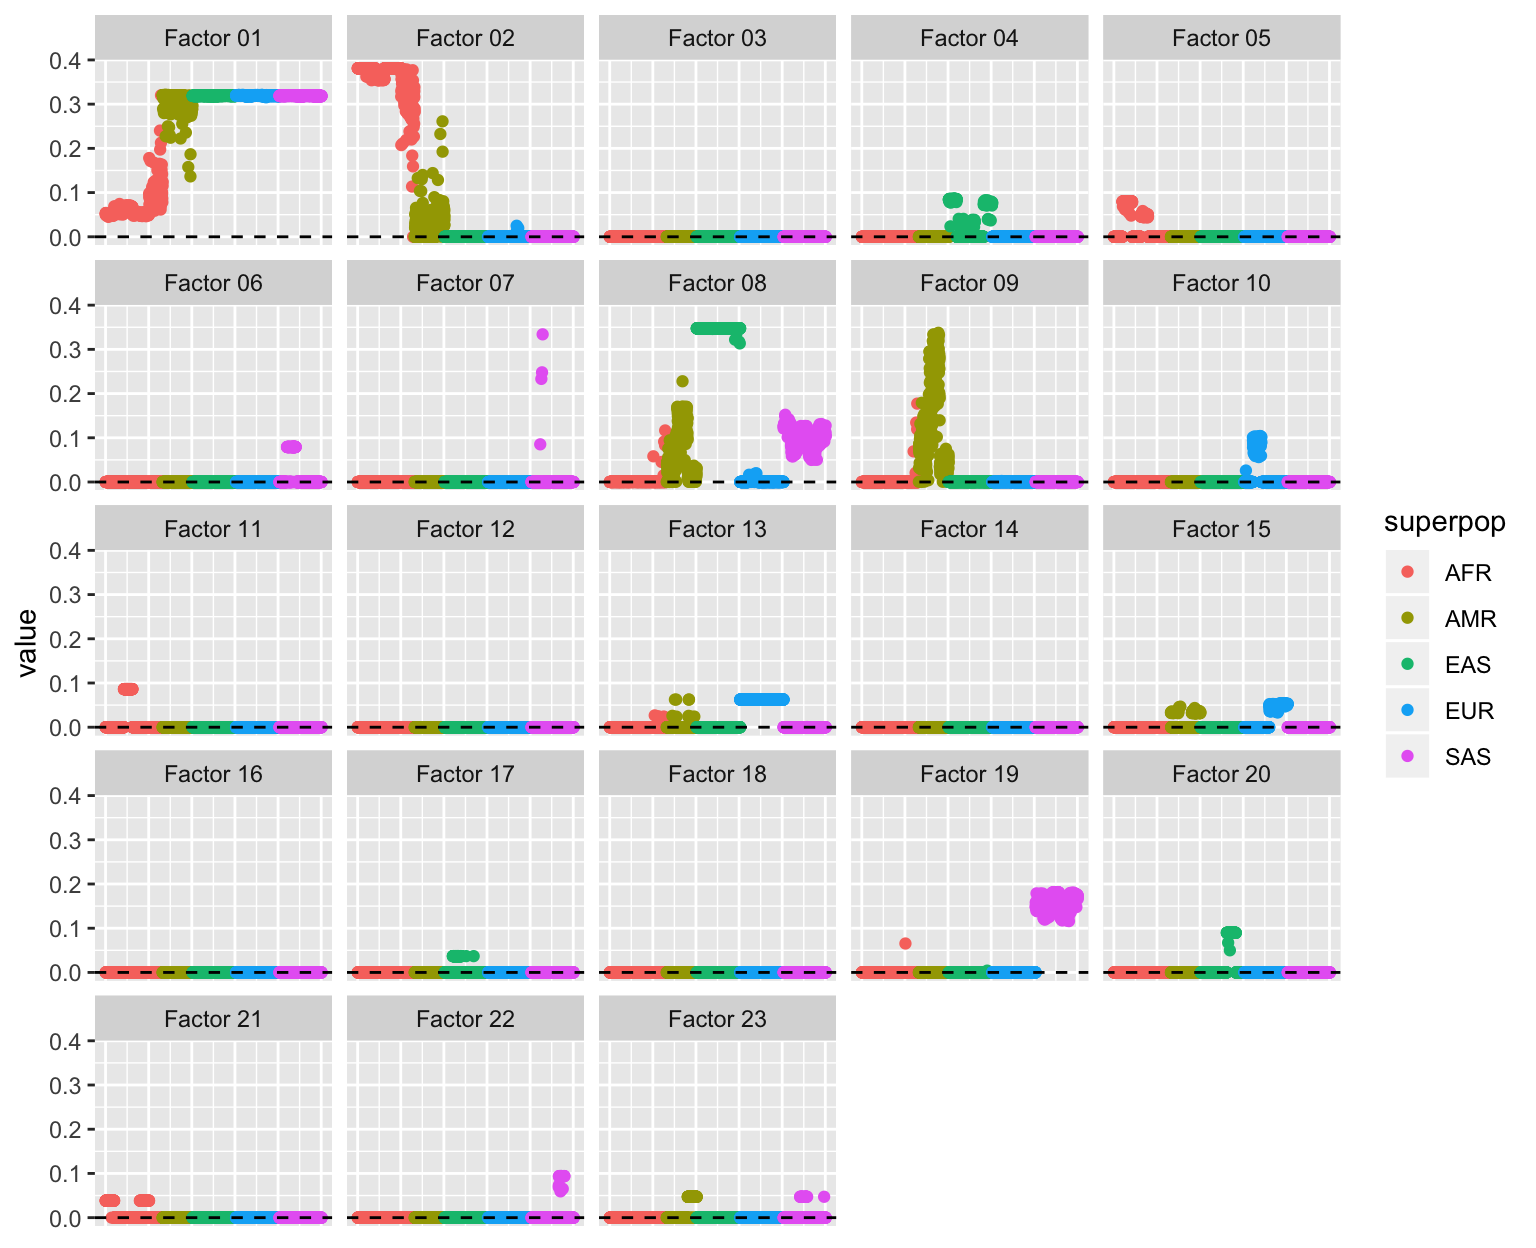
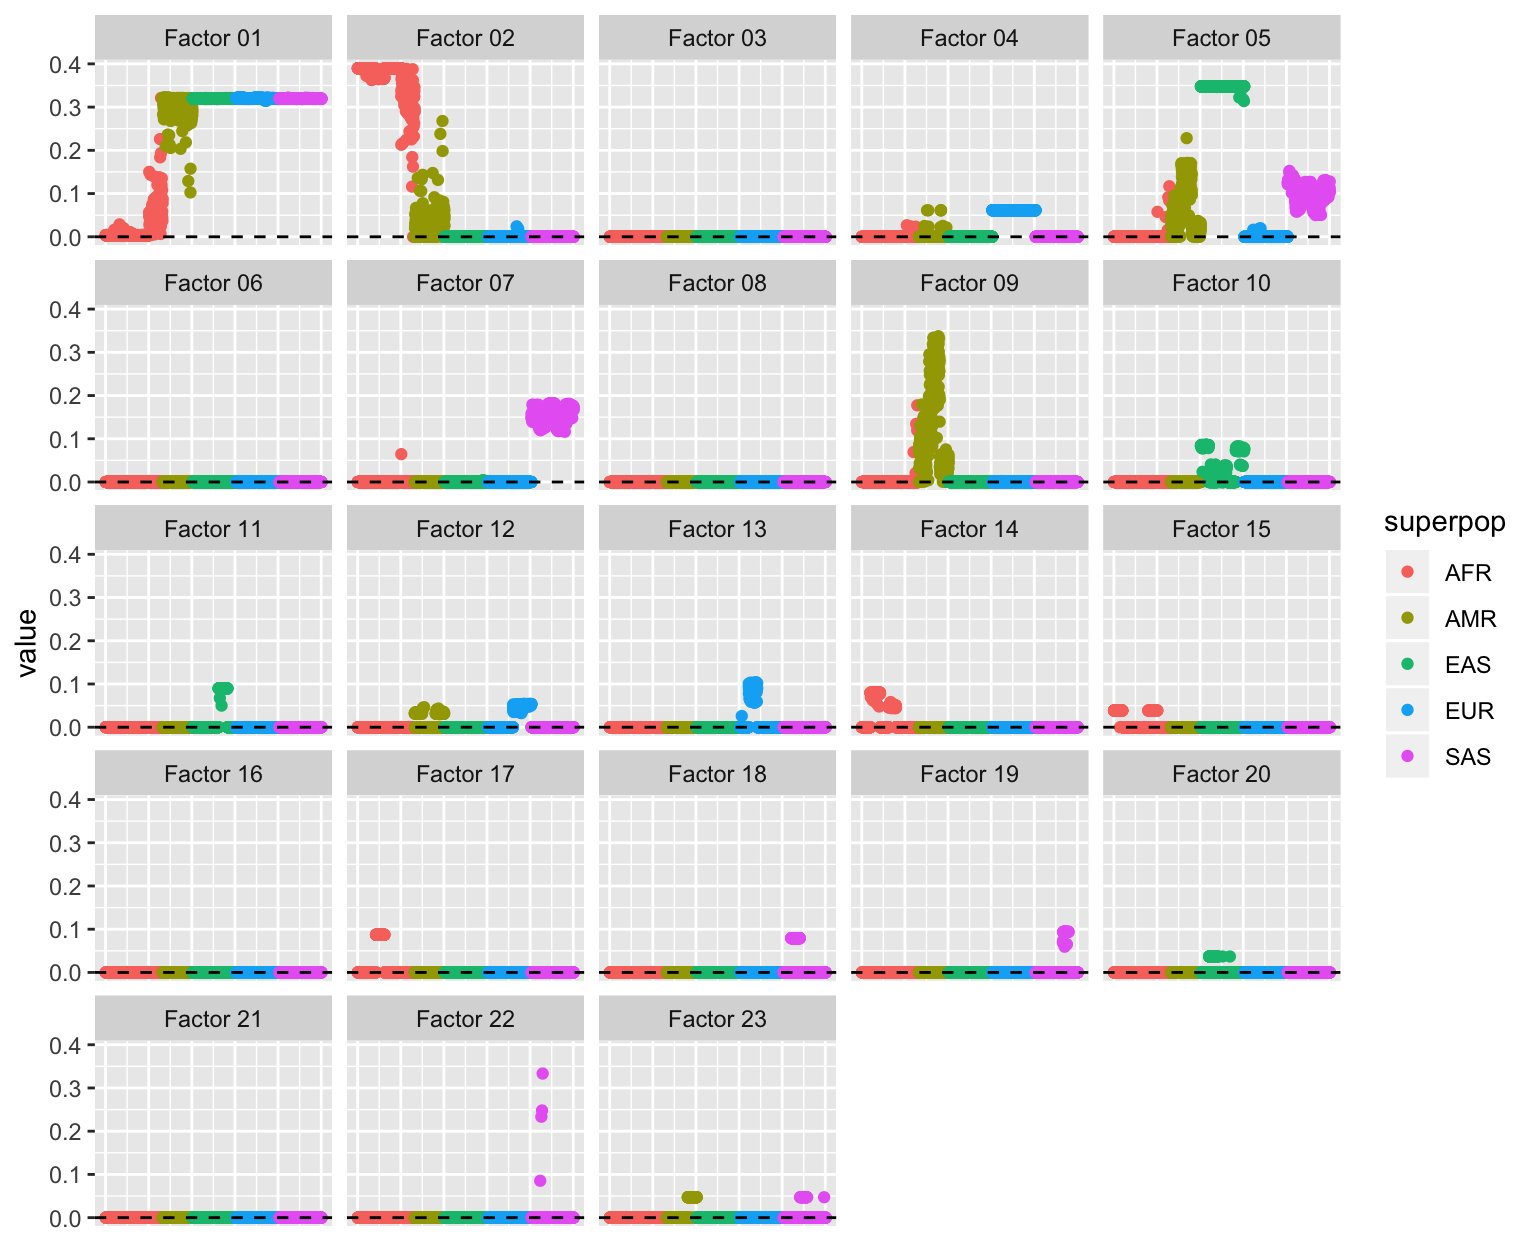
Build site.

diff --git a/docs/covmat_1kg.html b/docs/covmat_1kg.html
@@ -363,7 +363,7 @@ div.section {
 <div class="tab-content">
 <div id="summary" class="tab-pane fade in active">
 <p>
-<strong>Last updated:</strong> 2020-09-12
+<strong>Last updated:</strong> 2020-09-13
 </p>
 <p>
 <strong>Checks:</strong> <span class="glyphicon glyphicon-ok text-success" aria-hidden="true"></span> 6 <span class="glyphicon glyphicon-exclamation-sign text-danger" aria-hidden="true"></span> 0
@@ -442,10 +442,10 @@ This reproducible <a href="http://rmarkdown.rstudio.com">R Markdown</a> analysis
 <div class="panel panel-default">
 <div class="panel-heading">
 <p class="panel-title">
-<a data-toggle="collapse" data-parent="#workflowr-checks" href="#strongRepositoryversionstrongahrefhttpsgithubcomjhmarcusdriftworkflowtreec433e173e916f42afcf13d1eb495c4b2abc273abtargetblankc433e17a"> <span class="glyphicon glyphicon-ok text-success" aria-hidden="true"></span> <strong>Repository version:</strong> <a href="https://github.com/jhmarcus/drift-workflow/tree/c433e173e916f42afcf13d1eb495c4b2abc273ab" target="_blank">c433e17</a> </a>
+<a data-toggle="collapse" data-parent="#workflowr-checks" href="#strongRepositoryversionstrongahrefhttpsgithubcomjhmarcusdriftworkflowtree8633525f3943956fe97eed6d11653f8f44dc2cb9targetblank8633525a"> <span class="glyphicon glyphicon-ok text-success" aria-hidden="true"></span> <strong>Repository version:</strong> <a href="https://github.com/jhmarcus/drift-workflow/tree/8633525f3943956fe97eed6d11653f8f44dc2cb9" target="_blank">8633525</a> </a>
 </p>
 </div>
[2 lines of base64/hex data omitted]
 <div class="panel-body">
 <p>
 Great! You are using Git for version control. Tracking code development and connecting the code version to the results is critical for reproducibility. The version displayed above was the version of the Git repository at the time these results were generated. <br><br> Note that you need to be careful to ensure that all relevant files for the analysis have been committed to Git prior to generating the results (you can use <code>wflow_publish</code> or <code>wflow_git_commit</code>). workflowr only checks the R Markdown file, but you know if there are other scripts or data files that it depends on. Below is the status of the Git repository when the results were generated:
@@ -507,6 +507,40 @@ Message
 </tr>
 </thead>
 <tbody>
+<tr>
+<td>
+Rmd
+</td>
+<td>
+<a href="https://github.com/jhmarcus/drift-workflow/blob/8633525f3943956fe97eed6d11653f8f44dc2cb9/analysis/covmat_1kg.Rmd" target="_blank">8633525</a>
+</td>
+<td>
+Jason Willwerscheid
+</td>
+<td>
+2020-09-13
+</td>
+<td>
+wflow_publish(“analysis/covmat_1kg.Rmd”)
+</td>
+</tr>
+<tr>
+<td>
+html
+</td>
+<td>
+<a href="https://rawcdn.githack.com/jhmarcus/drift-workflow/c77198e4e00aade34fdedadee2cd09920c98c307/docs/covmat_1kg.html" target="_blank">c77198e</a>
+</td>
+<td>
+Jason Willwerscheid
+</td>
+<td>
+2020-09-12
+</td>
+<td>
+Build site.
+</td>
+</tr>
 <tr>
 <td>
 Rmd
@@ -631,6 +665,17 @@ Date
 <tbody>
 <tr>
 <td>
+<a href="https://github.com/jhmarcus/drift-workflow/blob/c77198e4e00aade34fdedadee2cd09920c98c307/docs/figure/covmat_1kg.Rmd/pl_g-1.png" target="_blank">c77198e</a>
+</td>
+<td>
+Jason Willwerscheid
+</td>
+<td>
+2020-09-12
+</td>
+</tr>
+<tr>
+<td>
 <a href="https://github.com/jhmarcus/drift-workflow/blob/ca2258e4ae136f1dec2c78663fe9912e1bae56e9/docs/figure/covmat_1kg.Rmd/pl_g-1.png" target="_blank">ca2258e</a>
 </td>
 <td>
@@ -673,6 +718,17 @@ Date
 </tr>
 </thead>
 <tbody>
+<tr>
+<td>
+<a href="https://github.com/jhmarcus/drift-workflow/blob/c77198e4e00aade34fdedadee2cd09920c98c307/docs/figure/covmat_1kg.Rmd/pl_bf-1.png" target="_blank">c77198e</a>
+</td>
+<td>
+Jason Willwerscheid
+</td>
+<td>
+2020-09-12
+</td>
+</tr>
 <tr>
 <td>
 <a href="https://github.com/jhmarcus/drift-workflow/blob/ca2258e4ae136f1dec2c78663fe9912e1bae56e9/docs/figure/covmat_1kg.Rmd/pl_bf-1.png" target="_blank">ca2258e</a>
@@ -751,6 +807,17 @@ Date
 <tbody>
 <tr>
 <td>
+<a href="https://github.com/jhmarcus/drift-workflow/blob/c77198e4e00aade34fdedadee2cd09920c98c307/docs/figure/covmat_1kg.Rmd/diag-1.png" target="_blank">c77198e</a>
+</td>
+<td>
+Jason Willwerscheid
+</td>
+<td>
+2020-09-12
+</td>
+</tr>
+<tr>
+<td>
 <a href="https://github.com/jhmarcus/drift-workflow/blob/ca2258e4ae136f1dec2c78663fe9912e1bae56e9/docs/figure/covmat_1kg.Rmd/diag-1.png" target="_blank">ca2258e</a>
 </td>
 <td>
@@ -769,8 +836,7 @@ Jason Willwerscheid
 <h2>Drift</h2>
 <pre class="r"><code>LL &lt;- fl$loadings.pm[[1]] %*% diag(sqrt(fl$loadings.scale))
 LL &lt;- cbind(abs(LL[, 1]), pmax(LL[, -1], 0), pmax(-LL[, -1], 0))
-LL &lt;- LL[, c(1, 2 * (1:11), 2 * (1:11) + 1)]
-# LL &lt;- LL[, -c(3, 7, 12, 14, 16, 18, 21, 22)] # by inspection
+LL &lt;- LL[, c(1, as.vector(sapply(2:12, `+`, c(0, 11))))]
 
 LL_scale &lt;- apply(LL, 2, max)
 LL &lt;- t(t(LL) / LL_scale)
@@ -783,7 +849,45 @@ dr &lt;- init_from_covmat(covmat, LL, p = 10000, prior.s2 = LL_scale^2)
 dr &lt;- drift(dr, maxiter = 200, verbose = FALSE)
 
 plot(plot_fl(dr$EL %*% diag(sqrt(dr$prior_s2))))</code></pre>
-<img src="figure/covmat_1kg.Rmd/dr-1.png" width="768" style="display: block; margin: auto;" /> <br> <br>
+<p><img src="figure/covmat_1kg.Rmd/dr-1.png" width="768" style="display: block; margin: auto;" /></p>
+<p>
+<button type="button" class="btn btn-default btn-xs btn-workflowr btn-workflowr-fig" data-toggle="collapse" data-target="#fig-dr-1">
+Past versions of dr-1.png
+</button>
+</p>
+<div id="fig-dr-1" class="collapse">
+<div class="table-responsive">
+<table class="table table-condensed table-hover">
+<thead>
+<tr>
+<th>
+Version
+</th>
+<th>
+Author
+</th>
+<th>
+Date
+</th>
+</tr>
+</thead>
+<tbody>
+<tr>
+<td>
+<a href="https://github.com/jhmarcus/drift-workflow/blob/c77198e4e00aade34fdedadee2cd09920c98c307/docs/figure/covmat_1kg.Rmd/dr-1.png" target="_blank">c77198e</a>
+</td>
+<td>
+Jason Willwerscheid
+</td>
+<td>
+2020-09-12
+</td>
+</tr>
+</tbody>
+</table>
+</div>
+</div>
+<br> <br>
 <p>
 <button type="button" class="btn btn-default btn-workflowr btn-workflowr-sessioninfo" data-toggle="collapse" data-target="#workflowr-sessioninfo" style="display: block;">
 <span class="glyphicon glyphicon-wrench" aria-hidden="true"></span> Session information
